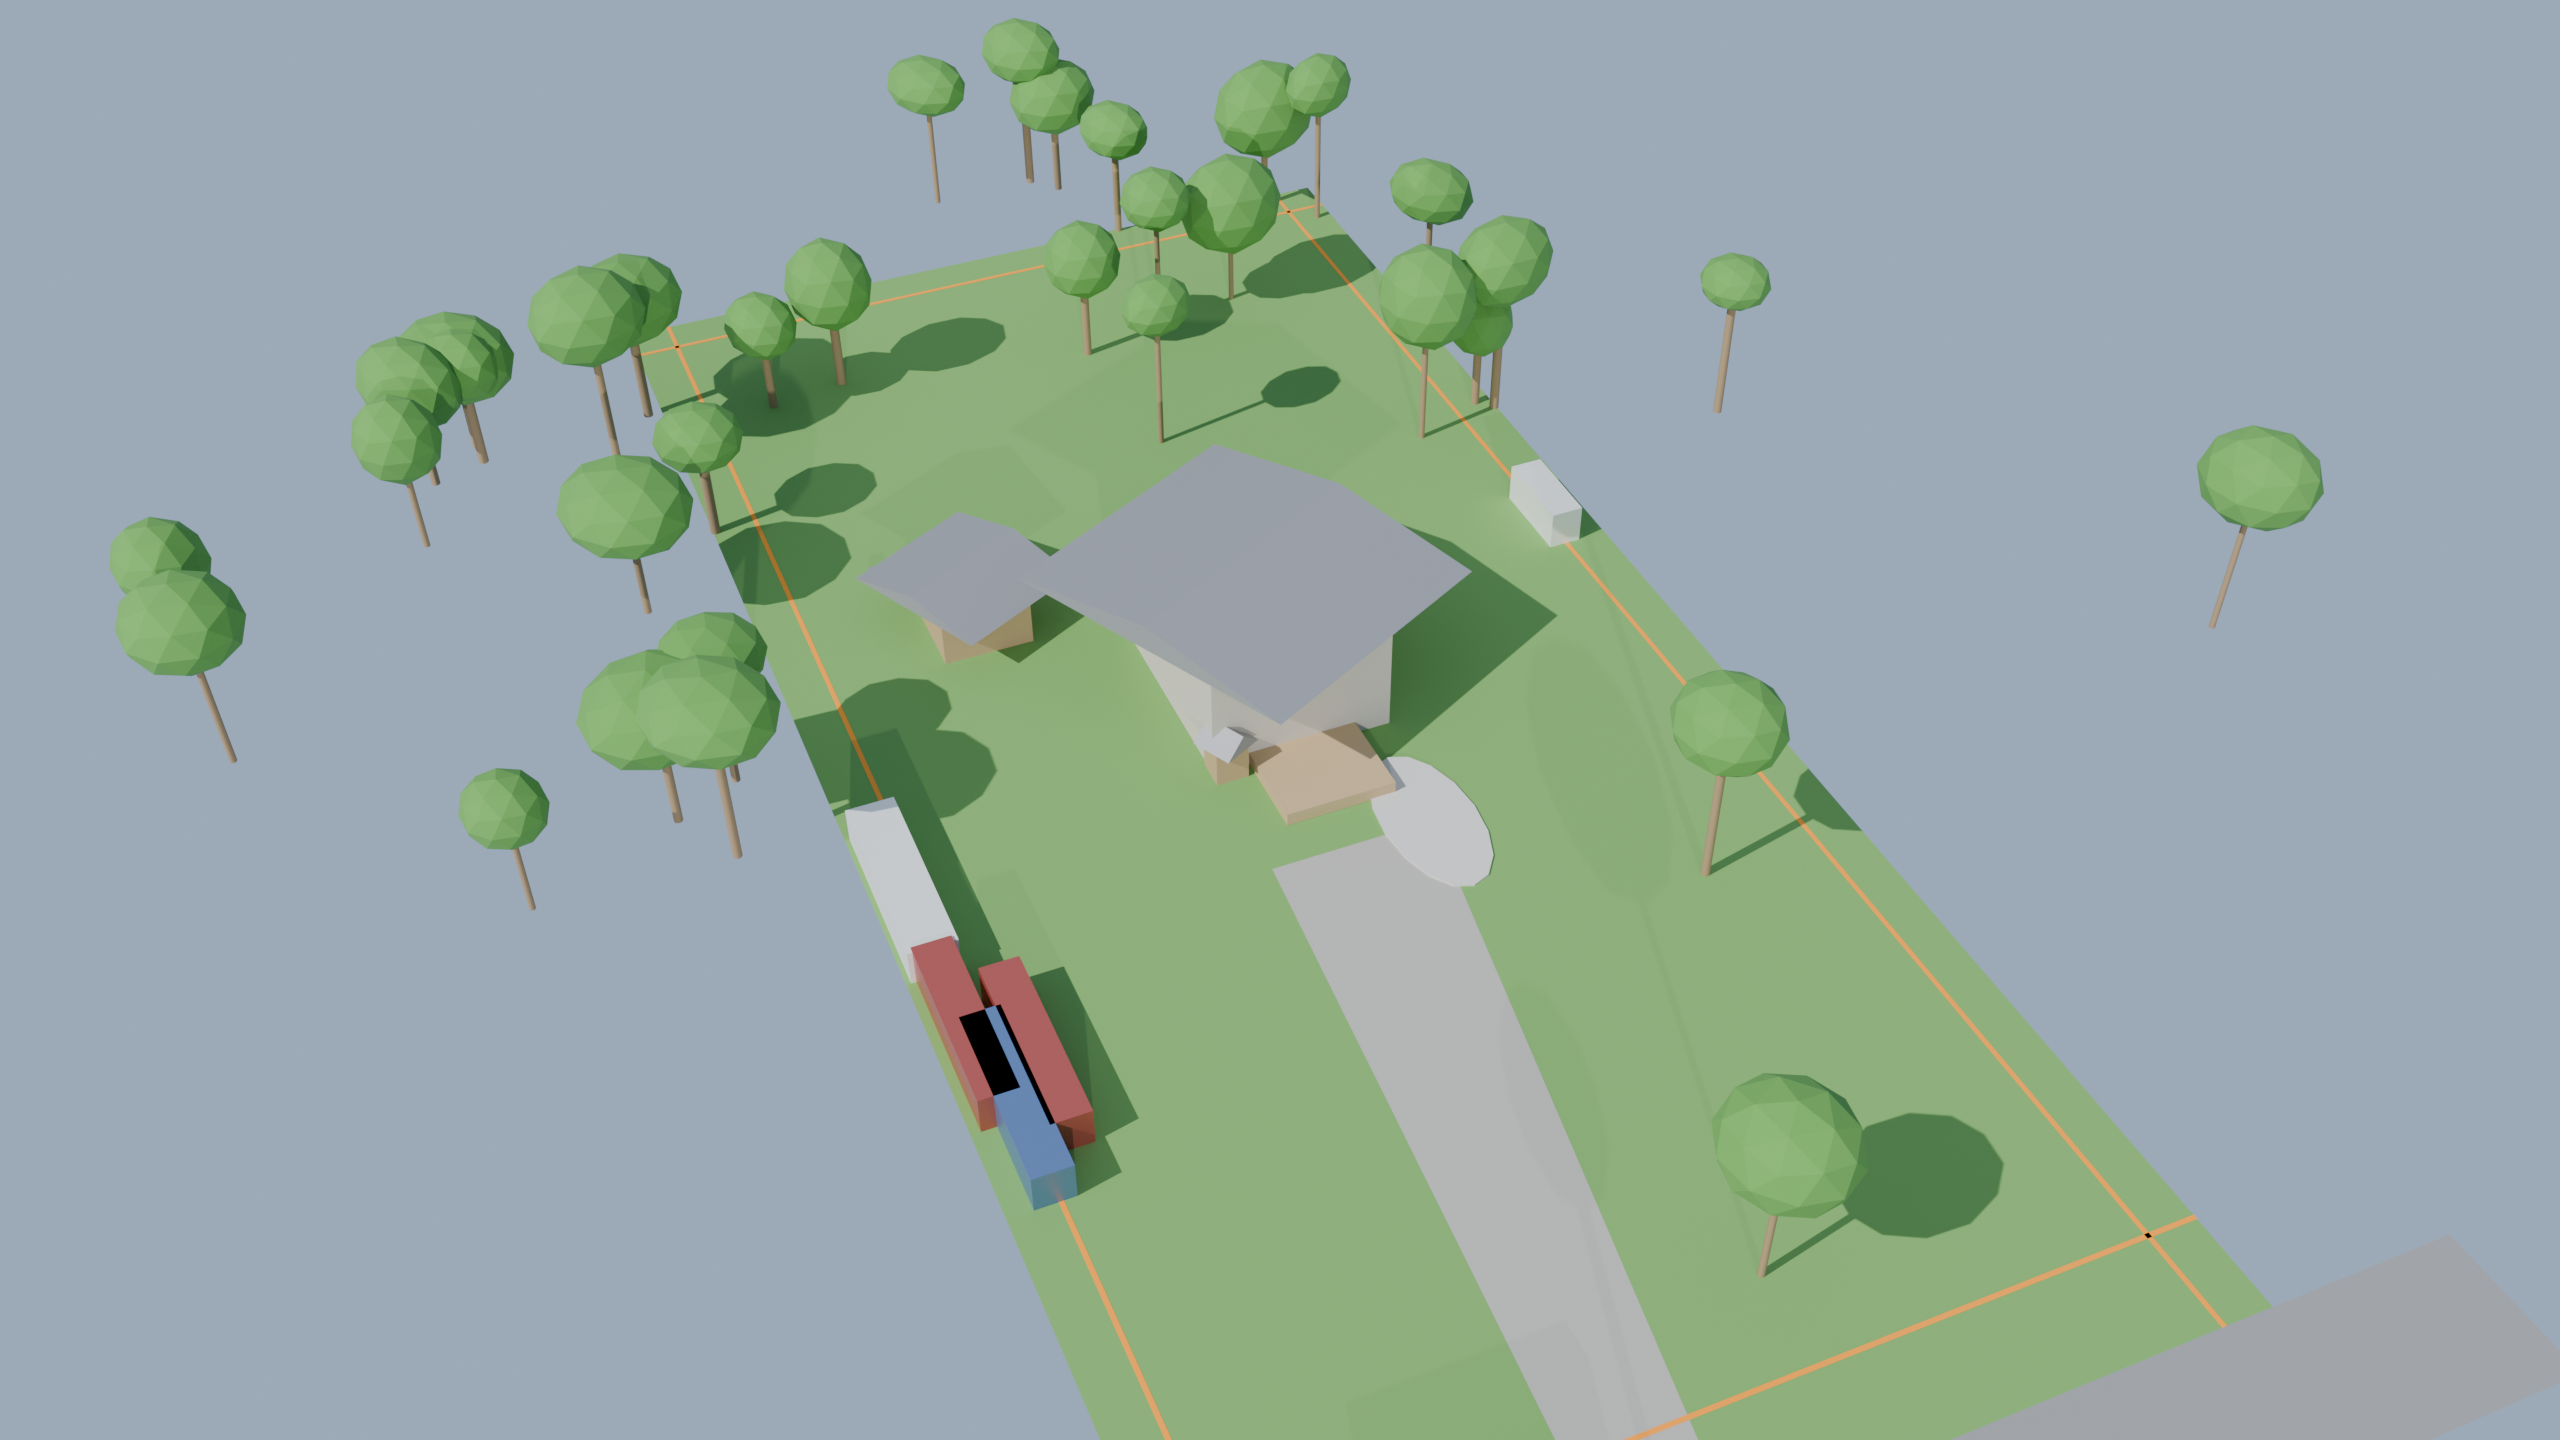
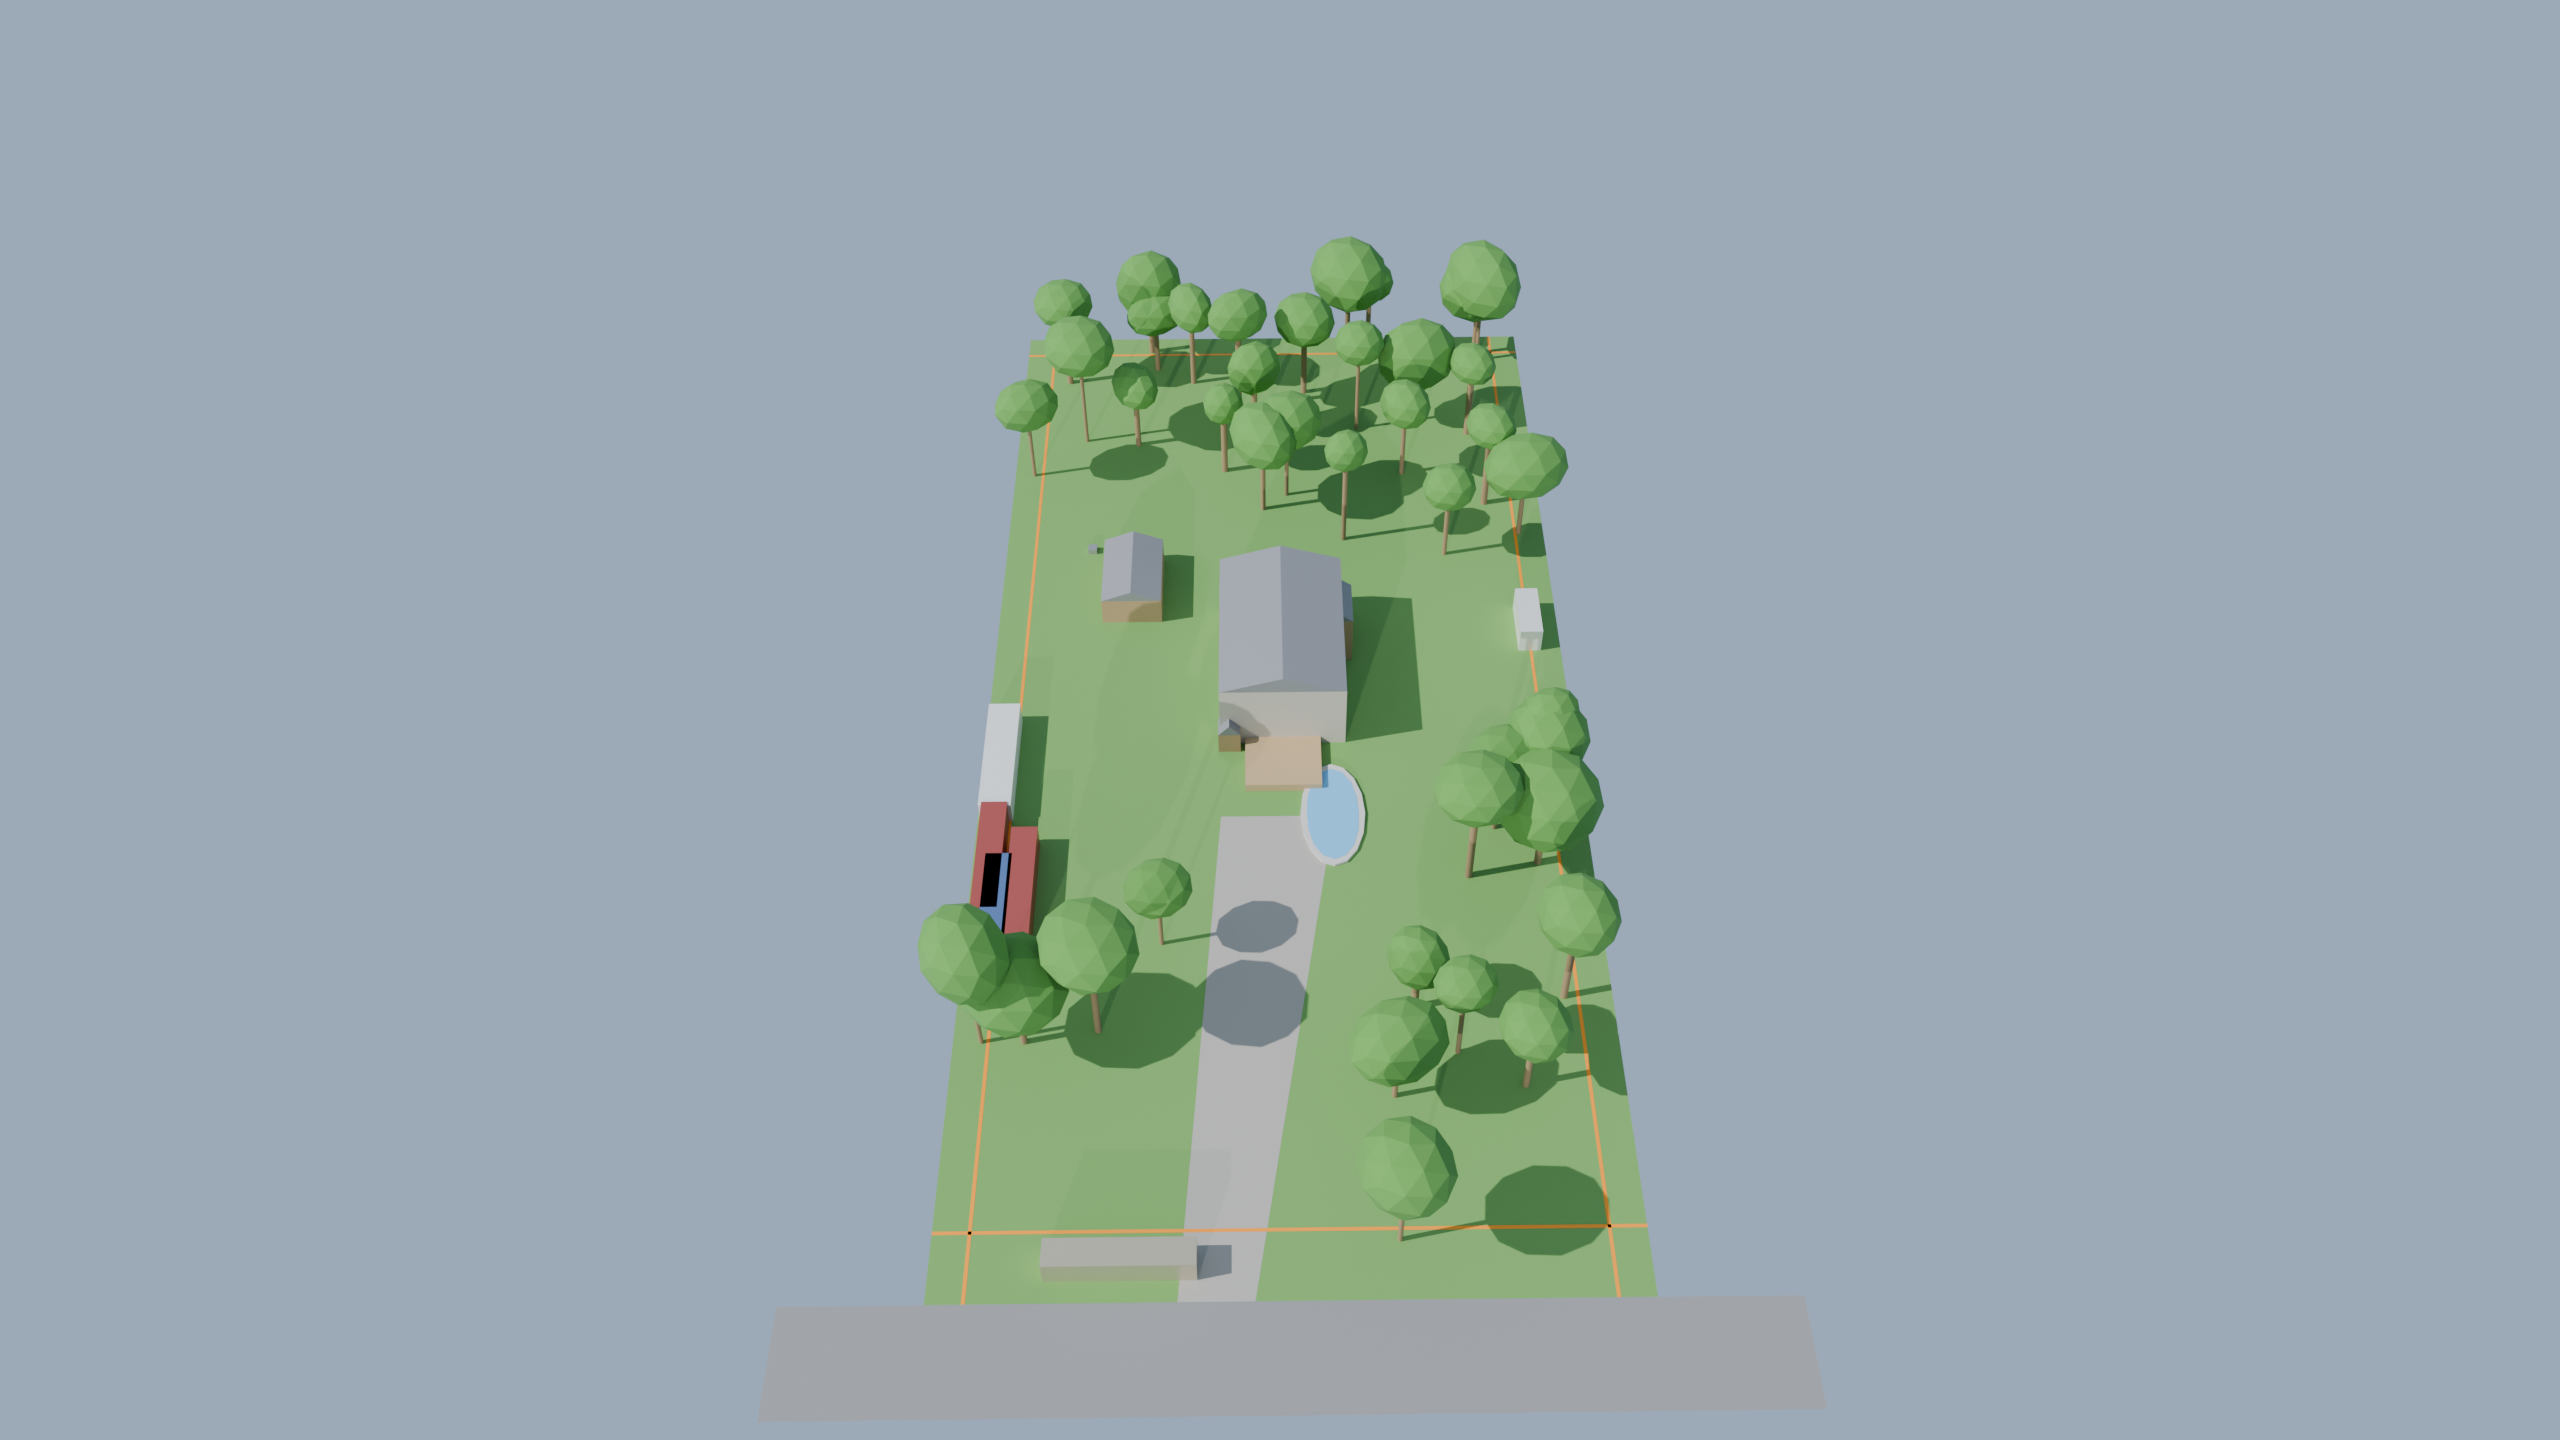
fix: improve render — blue pool, trees inside parcel, better camera
- Point-in-polygon check ensures all trees within parcel boundary
- Pool water now renders as visible blue
- Camera pulled back for full property view
- Roof ridges aligned with building longest edge
- Auto-render enabled (no 2-step process)
- 40 trees with 40ft structure clearance

diff --git a/blender/render_property.py b/blender/render_property.py
@@ -114,7 +114,7 @@ MATERIALS = {
     'road':        make_material("Road",         (0.25, 0.25, 0.25, 1), roughness=0.9),
     'gravel':      make_material("Gravel",       (0.40, 0.38, 0.34, 1), roughness=0.95),
     'setback':     make_material("Setback Line", (1.0, 0.3, 0.0, 0.5), roughness=0.5),
-    'pool_water':  make_material("Pool Water",   (0.15, 0.45, 0.65, 1), roughness=0.1),
+    'pool_water':  make_material("Pool Water",   (0.15, 0.50, 0.85, 1), roughness=0.3),
     'concrete':    make_material("Concrete",     (0.60, 0.58, 0.55, 1), roughness=0.8),
     'underground': make_material("Underground",  (0.35, 0.30, 0.25, 1), roughness=0.9),
     'tree_trunk':  make_material("TreeTrunk",    (0.30, 0.20, 0.10, 1), roughness=0.9),
@@ -244,45 +244,58 @@ def create_polygon_mesh(name, coords_ft, height, material, z_base=0):
 
 
 def create_roof_from_footprint(name, coords_ft, h_base, h_peak, material):
-    """Create a gable roof over a footprint polygon (uses bounding box)."""
+    """Create a gable roof over a footprint polygon, aligned with property angle."""
     xs = [c[0] for c in coords_ft]
     ys = [c[1] for c in coords_ft]
     cx_r = (min(xs) + max(xs)) / 2
     cy_r = (min(ys) + max(ys)) / 2
-    hw = (max(xs) - min(xs)) / 2
-    hl = (max(ys) - min(ys)) / 2
 
-    # Determine roof ridge direction — along the longer axis
-    angle = 0
-    if hw > hl:
-        # Ridge along X (wider), gable on Y ends
-        pass
-    else:
-        # Ridge along Y (longer), gable on X ends — swap
-        hw, hl = hl, hw
-        angle = math.pi / 2
+    # Find the longest edge of the footprint to determine ridge direction
+    max_edge_len = 0
+    ridge_angle = 0
+    for i in range(len(coords_ft)):
+        j = (i + 1) % len(coords_ft)
+        dx = coords_ft[j][0] - coords_ft[i][0]
+        dy = coords_ft[j][1] - coords_ft[i][1]
+        edge_len = math.sqrt(dx**2 + dy**2)
+        if edge_len > max_edge_len:
+            max_edge_len = edge_len
+            ridge_angle = math.atan2(dy, dx)
+
+    # Half-widths: along ridge and perpendicular
+    hl = max_edge_len / 2  # along ridge
+    # Find width perpendicular to ridge
+    cos_a = math.cos(ridge_angle)
+    sin_a = math.sin(ridge_angle)
+    perp_dists = []
+    for c in coords_ft:
+        dx = c[0] - cx_r
+        dy = c[1] - cy_r
+        perp = -dx * sin_a + dy * cos_a
+        perp_dists.append(perp)
+    hw = (max(perp_dists) - min(perp_dists)) / 2
 
     mesh = bpy.data.meshes.new(name + "_roof")
     obj = bpy.data.objects.new(name + "_Roof", mesh)
     bpy.context.collection.objects.link(obj)
 
     bm = bmesh.new()
-    v0 = bm.verts.new((-hw, -hl, h_base))
-    v1 = bm.verts.new((hw, -hl, h_base))
-    v2 = bm.verts.new((hw, hl, h_base))
-    v3 = bm.verts.new((-hw, hl, h_base))
-    v4 = bm.verts.new((0, -hl, h_base + h_peak))
-    v5 = bm.verts.new((0, hl, h_base + h_peak))
+    v0 = bm.verts.new((-hl, -hw, h_base))
+    v1 = bm.verts.new((hl, -hw, h_base))
+    v2 = bm.verts.new((hl, hw, h_base))
+    v3 = bm.verts.new((-hl, hw, h_base))
+    v4 = bm.verts.new((-hl, 0, h_base + h_peak))
+    v5 = bm.verts.new((hl, 0, h_base + h_peak))
 
-    bm.faces.new([v0, v1, v4])
-    bm.faces.new([v2, v3, v5])
-    bm.faces.new([v0, v4, v5, v3])
-    bm.faces.new([v1, v2, v5, v4])
+    bm.faces.new([v0, v1, v5, v4])   # front slope
+    bm.faces.new([v1, v2, v5])        # right gable
+    bm.faces.new([v2, v3, v4, v5])    # back slope
+    bm.faces.new([v3, v0, v4])        # left gable
 
     bm.to_mesh(mesh)
     bm.free()
     obj.location = (cx_r, cy_r, 0)
-    obj.rotation_euler.z = angle
+    obj.rotation_euler.z = ridge_angle
     obj.data.materials.append(material)
     return obj
 
@@ -325,10 +338,10 @@ for s in structures_db:
 
     # Special handling for pool
     if 'pool' in s['name'].lower() or 'swim' in s['name'].lower():
-        # Pool deck (slightly larger)
-        create_polygon_mesh(name + "_Deck", coords_ft, 0.5,
-                          MATERIALS['concrete'], z_base=-0.05)
-        # Pool water (inset)
+        # Pool rim (concrete deck)
+        create_polygon_mesh(name + "_Rim", coords_ft, 1.0,
+                          MATERIALS['concrete'], z_base=0.02)
+        # Pool water (inset, flush on top)
         margin = 2  # ft inset
         pool_cx = sum(c[0] for c in coords_ft) / len(coords_ft)
         pool_cy = sum(c[1] for c in coords_ft) / len(coords_ft)
@@ -342,8 +355,8 @@ for s in structures_db:
                 inset.append((pool_cx + dx * scale, pool_cy + dy * scale))
             else:
                 inset.append(c)
-        create_polygon_mesh(name + "_Water", inset, 0.1,
-                          MATERIALS['pool_water'], z_base=0.3)
+        create_polygon_mesh(name + "_Water", inset, 0.2,
+                          MATERIALS['pool_water'], z_base=1.1)
         continue
 
     # Special handling for driveway/gravel
@@ -420,27 +433,48 @@ for edge in edges_db:
 # ---------------------------------------------------------------------------
 # 9.  TREES — west-biased per survey (heavy coverage on west half)
 # ---------------------------------------------------------------------------
-for i in range(35):
-    for _ in range(80):
-        # 80% of trees in west half (survey shows heavy tree cover on west)
-        if random.random() < 0.80:
-            rx = random.uniform(min_x + 10, cx - 20)
+def point_in_polygon(px, py, polygon):
+    """Ray-casting point-in-polygon test."""
+    n = len(polygon)
+    inside = False
+    j = n - 1
+    for i in range(n):
+        xi, yi = polygon[i]
+        xj, yj = polygon[j]
+        if ((yi > py) != (yj > py)) and (px < (xj - xi) * (py - yi) / (yj - yi) + xi):
+            inside = not inside
+        j = i
+    return inside
+
+
+for i in range(40):
+    placed = False
+    for _ in range(150):
+        # 70% of trees in west half (survey shows heavy tree cover on west)
+        if random.random() < 0.70:
+            rx = random.uniform(min_x + 15, cx - 15)
         else:
-            rx = random.uniform(min_x + 10, max_x - 15)
-        ry = random.uniform(min_y + 25, max_y - 10)
+            rx = random.uniform(cx + 10, max_x - 20)
+        ry = random.uniform(min_y + 25, max_y - 15)
+
+        # Must be inside parcel boundary
+        if not point_in_polygon(rx, ry, parcel_ft):
+            continue
 
         ok = True
         for sc in structure_centers:
-            if math.sqrt((rx - sc[0])**2 + (ry - sc[1])**2) < 30:
+            if math.sqrt((rx - sc[0])**2 + (ry - sc[1])**2) < 40:
                 ok = False
                 break
-        if rx < min_x + 5 or rx > max_x - 5 or ry < min_y + 5 or ry > max_y - 5:
-            ok = False
         if ok:
+            placed = True
             break
 
-    trunk_h = random.uniform(18, 35)
-    crown_r = random.uniform(8, 14)
+    if not placed:
+        continue
+
+    trunk_h = random.uniform(20, 38)
+    crown_r = random.uniform(8, 15)
 
     bpy.ops.mesh.primitive_cylinder_add(
         radius=random.uniform(0.6, 1.2), depth=trunk_h,
@@ -490,7 +524,12 @@ bg.inputs["Strength"].default_value = 0.8
 # ---------------------------------------------------------------------------
 # 12. CAMERA — bird's-eye perspective view
 # ---------------------------------------------------------------------------
-bpy.ops.object.camera_add(location=(cx + 250, cy - 300, 350))
+# Camera from ESE looking WNW — angled to match survey plat perspective
+cam_x = cx + 380
+cam_y = cy - 200
+cam_z = 480
+
+bpy.ops.object.camera_add(location=(cam_x, cam_y, cam_z))
 cam = bpy.context.active_object
 cam.name = "BirdsEye"
 
@@ -498,7 +537,7 @@ direction = Vector((cx, cy, 0)) - cam.location
 rot_quat = direction.to_track_quat('-Z', 'Y')
 cam.rotation_euler = rot_quat.to_euler()
 
-cam.data.lens = 35
+cam.data.lens = 28
 cam.data.clip_end = 2000
 bpy.context.scene.camera = cam
 
@@ -507,7 +546,7 @@ bpy.context.scene.camera = cam
 # ---------------------------------------------------------------------------
 scene = bpy.context.scene
 scene.render.engine = 'CYCLES'
-scene.cycles.samples = 128
+scene.cycles.samples = 64
 scene.cycles.use_denoising = True
 scene.render.resolution_x = 2560
 scene.render.resolution_y = 1440
@@ -531,6 +570,5 @@ print(f"Render to:   {output_path}")
 print(f"To render:   blender -b {blend_path} -o {output_path} -F PNG -f 1")
 print(f"{'='*60}\n")
 
-# Uncomment to auto-render:
-# bpy.ops.render.render(write_still=True)
-# print(f"Render complete: {output_path}")
+bpy.ops.render.render(write_still=True)
+print(f"Render complete: {output_path}")
